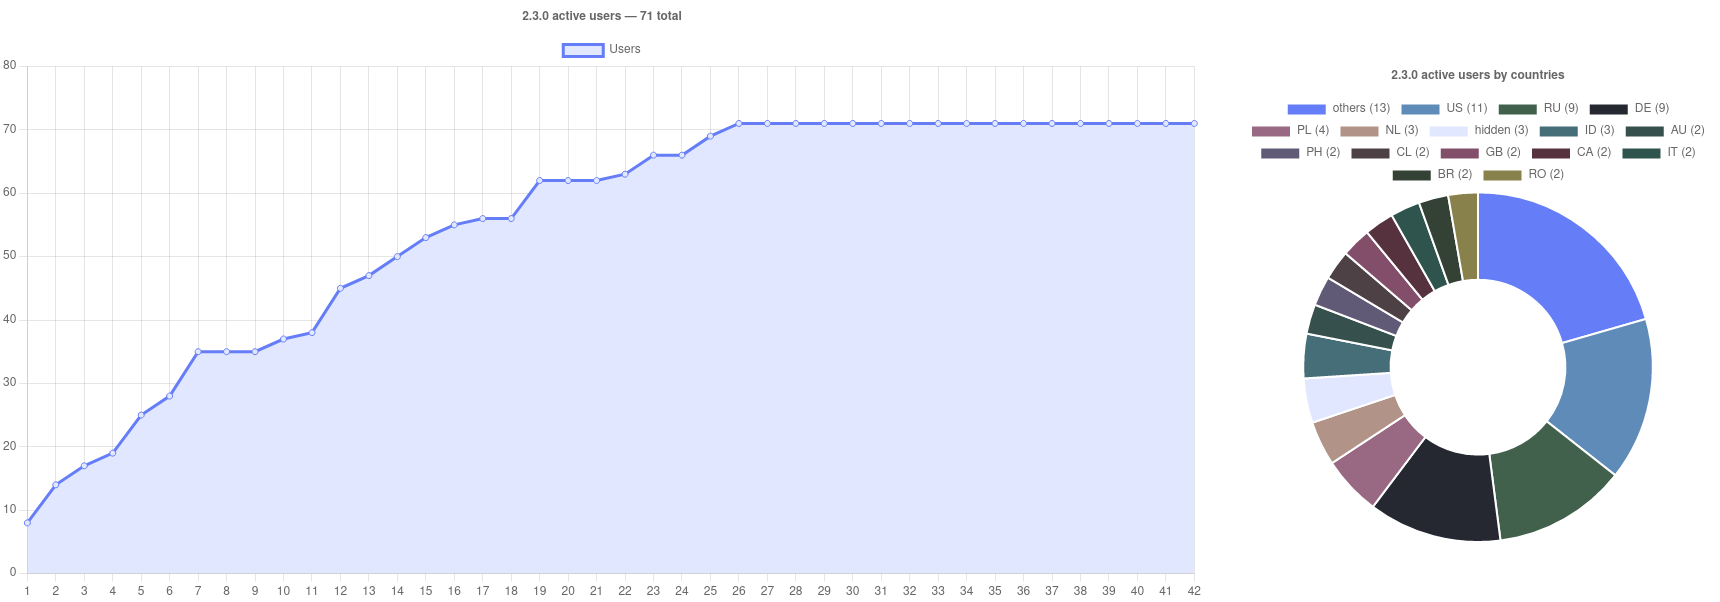
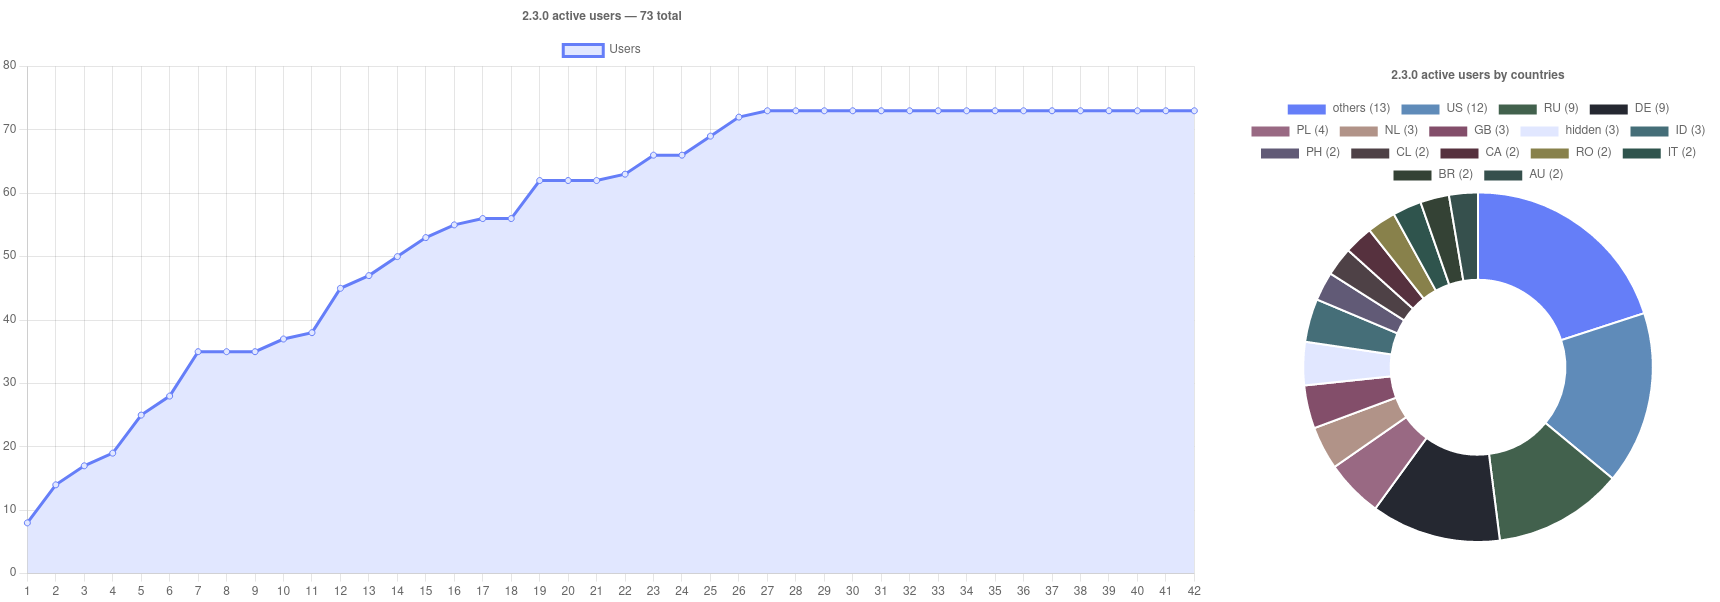
Updated statistics and readme

diff --git a/README.md b/README.md
@@ -34,7 +34,7 @@ This launcher is also available as the [an-anime-game-launcher](https://aur.arch
 
 <img src="repository-pics/stats/2.2.0.png">
 
-### 2.3.0 — 71 total
+### 2.3.0 — 73 total
 
 <img src="repository-pics/stats/2.3.0.png">
 
@@ -147,9 +147,3 @@ npm start
   - Always participate in patches testing
   - Applying anti login crash patch
   - Remove patch
-
-> Now I'm working on moving the project to the Tauri. Also for some personal reasons I, like the patch's author, will be busy, but until Christmas, so it's a bit more than a month. I will make some critical updates if they will be required, but the development will be frozen for this period. I hope you will enjoy playing the game, and I will enjoy continuing the development of this project
->
-> And, by the way, @Maroxy helped me to create the discord server for this project. I will sometimes appear there and you will be able to ask me about something if you want, ehe
-> 
-> November 22
